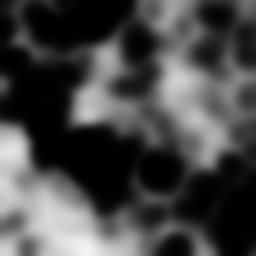
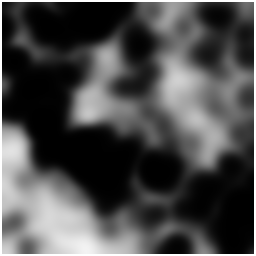
tweaks to terrain

Changed region(s): [[0.0, 0.0, 1.0, 1.0]]

diff --git a/src/gameobjects/shapes/terrainObject.ts b/src/gameobjects/shapes/terrainObject.ts
@@ -21,6 +21,7 @@ export class TerrainObject {
         world: CANNON.World,
         physicsMaterial: CANNON.Material,
         heightMapTextureAsArray: TextureToArray,
+        displacementHeightFactor: number,
         isCannonMeshVisible: boolean,
         isTexturedMeshVisible: boolean,
         wireframe: boolean = false) {
@@ -40,8 +41,6 @@ export class TerrainObject {
         grid.material.opacity = 1;
         grid.material.transparent = false;
         scene.add( grid );
-
-        var displacementHeightFactor = 3;
               
         // physics object and mesh generated directly from physics object
         var dataArray2D = heightMapTextureAsArray.getArray();
@@ -86,12 +85,13 @@ export class TerrainObject {
           matrix = dataArray2D;
           for (let i = 0; i < sizeX; i++) {
             for (let j = 0; j < sizeZ; j++) {
-              matrix[i][j] *= 10;
+              matrix[i][j] *= 10 / displacementHeightFactor;              
               matrix[i][j] += 1;
             }
           }
         }
         else {
+          // default is to generate hills
           for (let i = 0; i < sizeX; i++) {
             
             matrix.push([]);
@@ -189,24 +189,25 @@ export class TerrainObject {
 
       const displacementMap = new THREE.TextureLoader().load(asset);
 
-        if(!wireframe)
+        if(wireframe)
           return new THREE.MeshStandardMaterial({color: 0x007700,wireframe: true, displacementMap: displacementMap, displacementScale: displacementHeightFactor });
         
         const repeats = planeSize / 2;
         const loader = new THREE.TextureLoader();
 
-        const texture = this.loadAndConfigureTexture(loader, 'assets/tileable_grass_00.png', repeats);                
-        const texture2 = this.loadAndConfigureTexture(loader, 'assets/tileable_grass_01.png', repeats);        
-        const texture3 = this.loadAndConfigureTexture(loader, 'assets/stone 3.png', repeats);        
-        const texture4 = this.loadAndConfigureTexture(loader, 'assets/snow.png', repeats);
+        const texture1 = this.loadAndConfigureTexture(loader, 'assets/Sand 4.jpg', repeats);                
+        const texture2 = this.loadAndConfigureTexture(loader, 'assets/tileable_grass_00.png', repeats);        
+        const texture3 = this.loadAndConfigureTexture(loader, 'assets/tileable_grass_01.png', repeats);        
+        const texture4 = this.loadAndConfigureTexture(loader, 'assets/stone 3.png', repeats);
+        const texture5 = this.loadAndConfigureTexture(loader, 'assets/snow.png', repeats);
 
         return new THREE.ShaderMaterial({
             uniforms: {
-                level1Texture: { value: texture },
+                level1Texture: { value: texture1},
                 level2Texture: { value: texture2 },
                 level3Texture: { value: texture3 },
-                level4Texture: { value: texture3 },
-                level5Texture: { value: texture4 },
+                level4Texture: { value: texture4 },
+                level5Texture: { value: texture5 },
                 displacementMap: { value: displacementMap },
                 displacementScale: {value: displacementHeightFactor},
                 lightMap: { value: displacementMap },
@@ -307,7 +308,7 @@ export class TerrainObject {
 
         void main() 
         {
-            vec4 water = (smoothstep(0.01, 0.25, vAmount) - smoothstep(0.24, 0.26, vAmount)) * texture2D( level1Texture, vUV * 10.0 );
+            vec4 water = (smoothstep(-1.00, 0.25, vAmount) - smoothstep(0.24, 0.26, vAmount)) * texture2D( level1Texture, vUV * 10.0 );
             vec4 sandy = (smoothstep(0.24, 0.27, vAmount) - smoothstep(0.28, 0.31, vAmount)) * texture2D( level2Texture, vUV * 10.0 );
             vec4 grass = (smoothstep(0.28, 0.32, vAmount) - smoothstep(0.35, 0.40, vAmount)) * texture2D( level3Texture, vUV * 20.0 );
             vec4 rocky = (smoothstep(0.30, 0.50, vAmount) - smoothstep(0.40, 0.70, vAmount)) * texture2D( level4Texture, vUV * 20.0 );

diff --git a/src/scenes/gameScene.ts b/src/scenes/gameScene.ts
@@ -61,7 +61,7 @@ export default class GameScene extends THREE.Scene {
     private particleEmitters: ParticleEmitter[] = [];
     public explosionTexture: THREE.Texture = new THREE.Texture();
 
-    private heightMapTextureAsArray: TextureToArray = new TextureToArray(this.textureLoader, 'assets/heightmaps/heightmap_256x256.png');
+    private heightMapTextureAsArray: TextureToArray = new TextureToArray(this.textureLoader, 'assets/heightmaps/heightmap_arena_128x128.png');
 
 
     world: CANNON.World = new CANNON.World({
@@ -208,7 +208,8 @@ export default class GameScene extends THREE.Scene {
             this.world,
             groundMaterial,
             this.heightMapTextureAsArray,
-            true,
+            2,
+            false,
             true,
             false
         );
@@ -492,8 +493,8 @@ export default class GameScene extends THREE.Scene {
             }
         );
         this.water.rotation.x = - Math.PI / 2;
-        this.water.position.y += 0.75;
-        //this.add( this.water );
+        this.water.position.y += 1.5;
+        this.add( this.water );
 
         // TODO: sun from https://threejs.org/examples/?q=water#webgl_shaders_ocean
         /*
